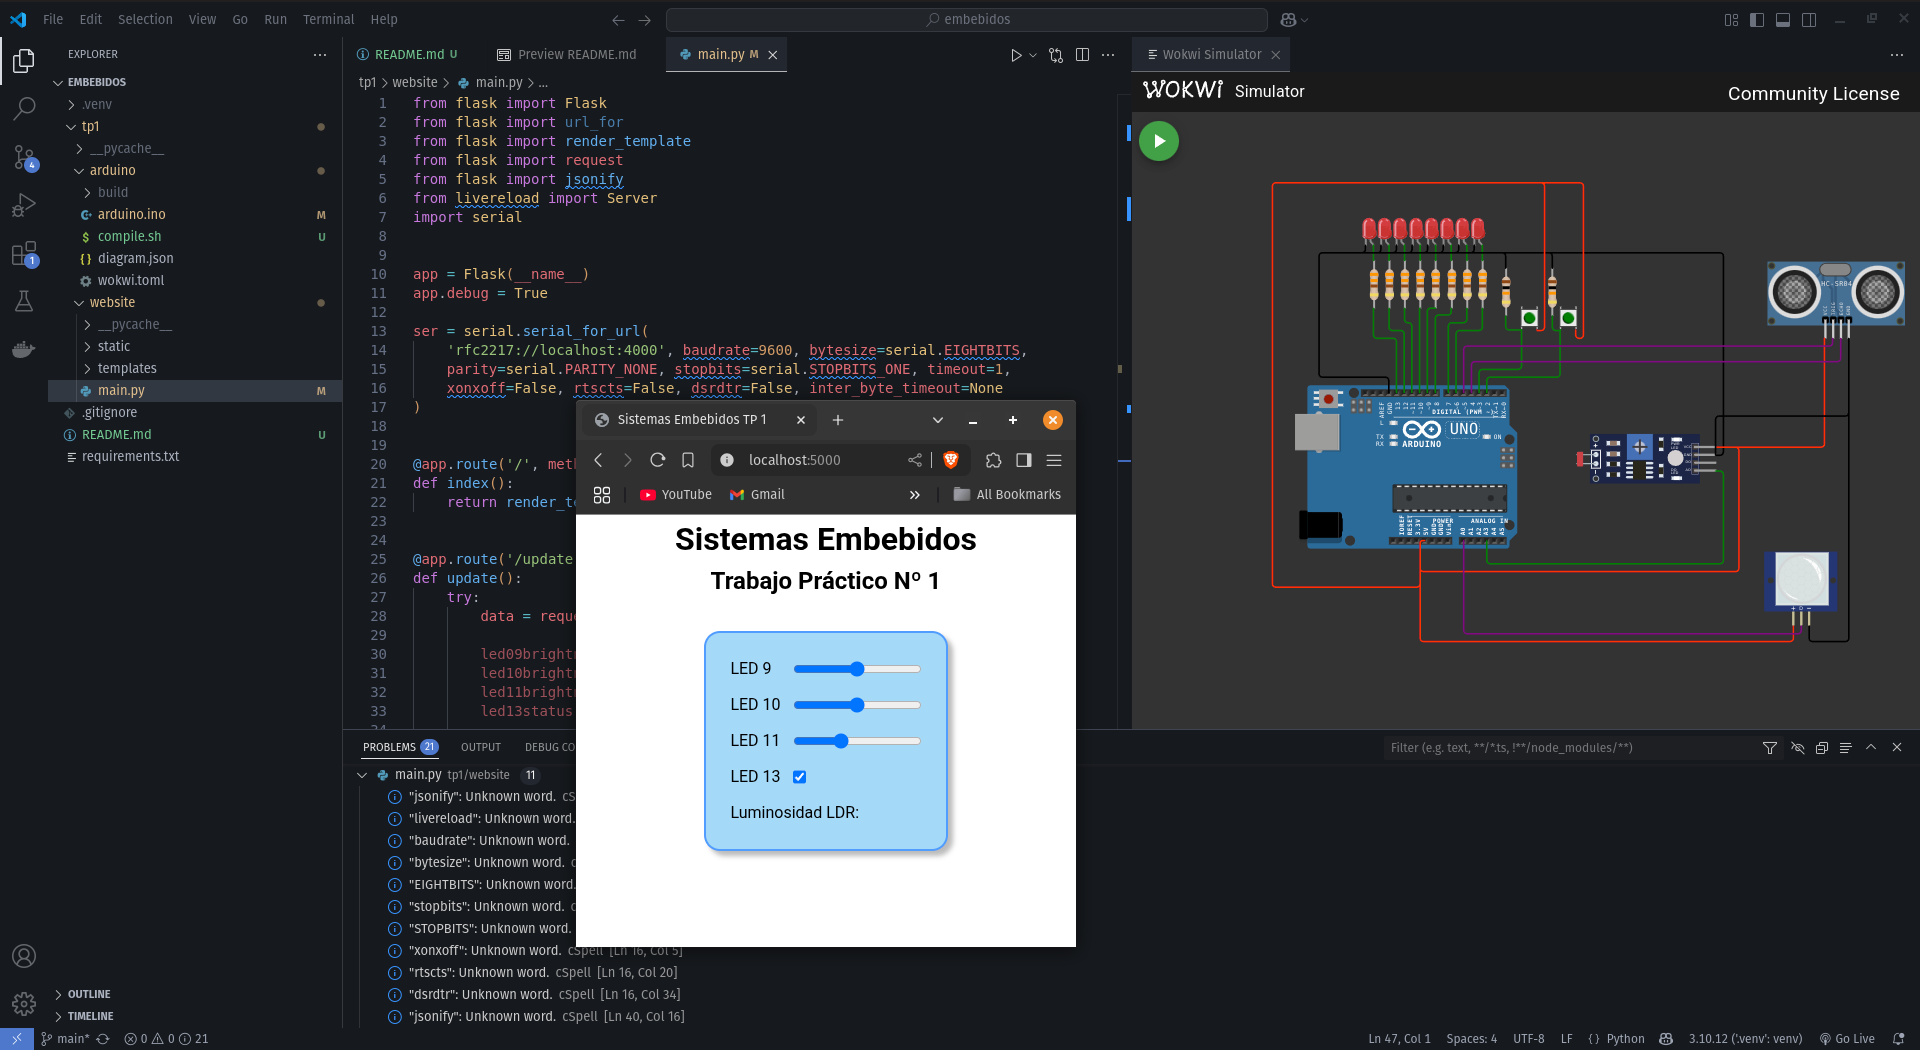
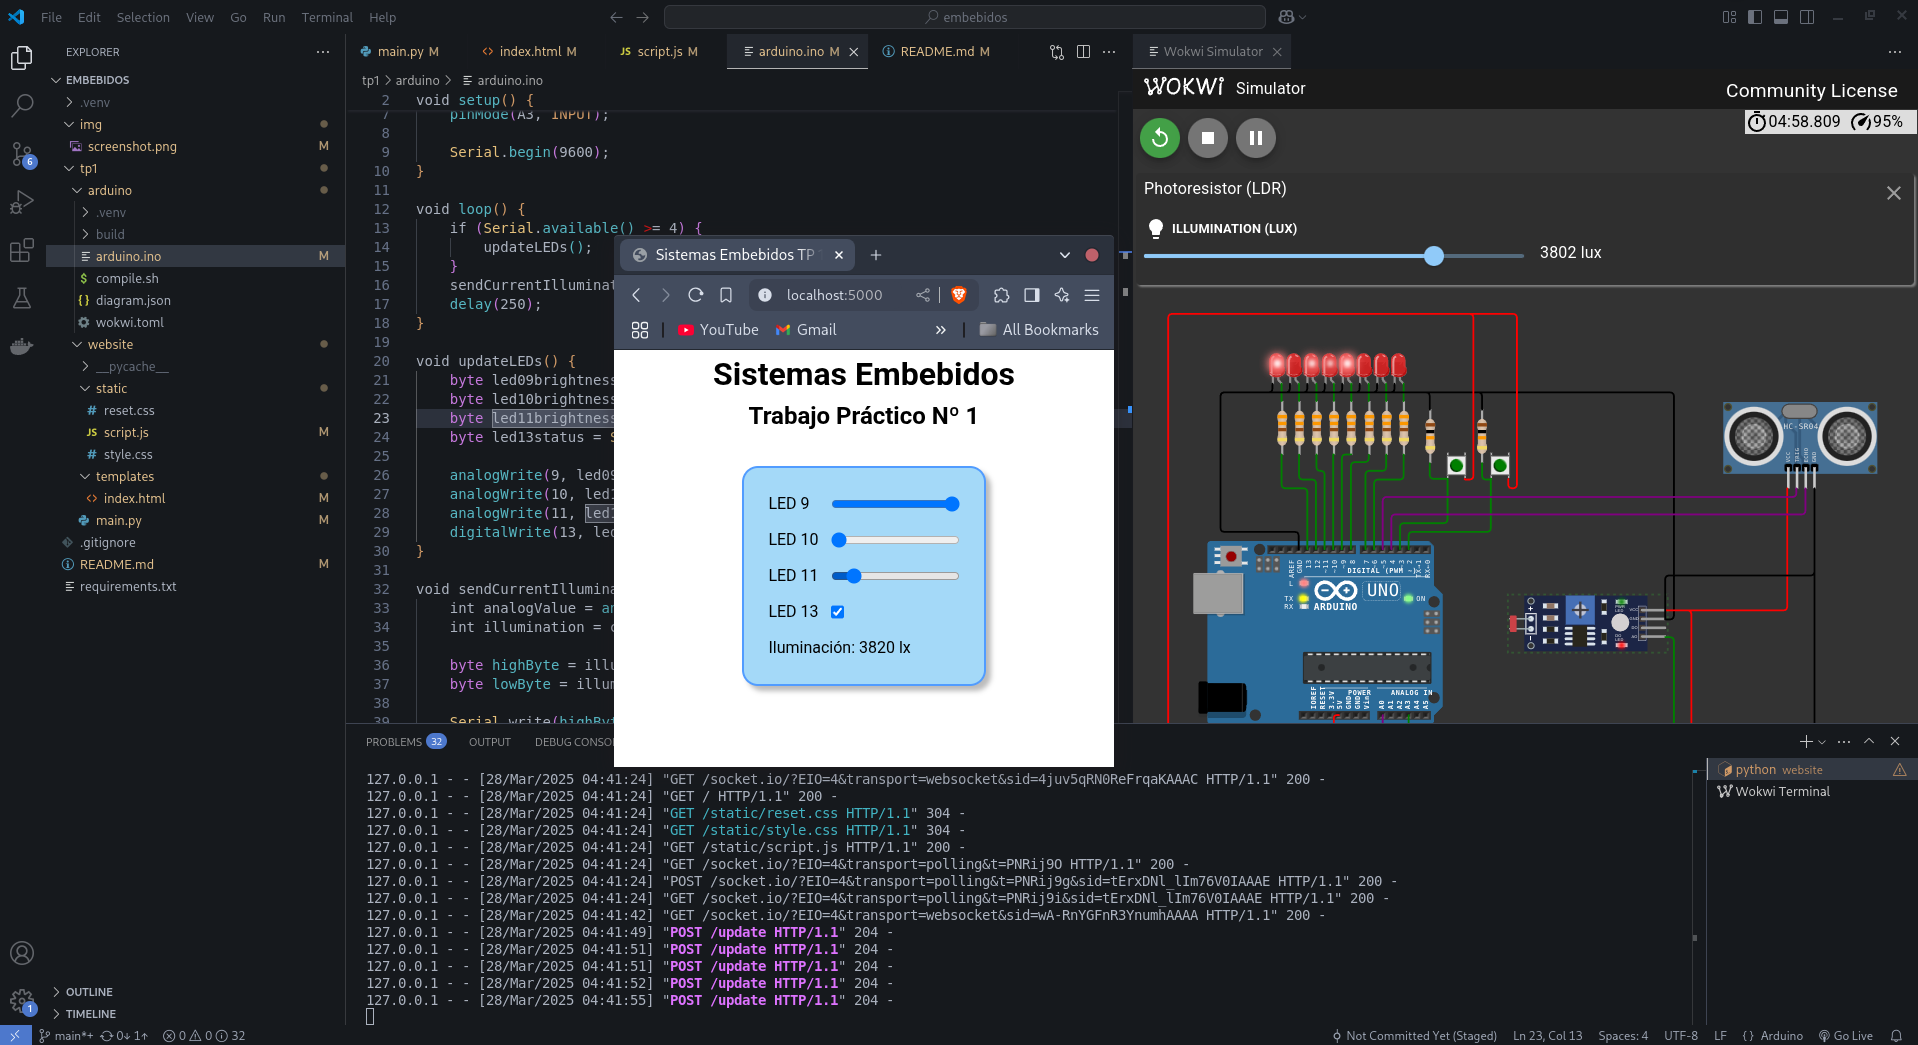
Load LEDs current status to page template

diff --git a/tp1/website/templates/index.html b/tp1/website/templates/index.html
@@ -19,23 +19,23 @@
     <form action="update" method="post">
         <label for="led09">
             LED 9
-            <input type="range" name="led09" id="led09" min="0" max="255" step="1">
+            <input type="range" name="led09" id="led09" min="0" max="255" step="1" value="{{ led09brightness }}">
         </label>
         <label for="led10">
             LED 10
-            <input type="range" name="led10" id="led10" min="0" max="255" step="1">
+            <input type="range" name="led10" id="led10" min="0" max="255" step="1" value="{{ led10brightness }}">
         </label>
         <label for="led11">
             LED 11
-            <input type="range" name="led11" id="led11" min="0" max="255" step="1">
+            <input type="range" name="led11" id="led11" min="0" max="255" step="1" value="{{ led11brightness }}">
         </label>
         <label for="led13">
             LED 13
-            <input type="checkbox" name="led13" id="led13">
+            <input type="checkbox" name="led13" id="led13" {% if led13status %}checked{% endif %}>
         </label>
         <div>
             Iluminación:
-            <span id="illumination"></span>
+            <span id="illumination">Cargando...</span>
         </div>
     </form>
 

diff --git a/tp1/website/static/script.js b/tp1/website/static/script.js
@@ -9,7 +9,7 @@ const illuminationIndicator = document.querySelector('#illumination');
 
 socket.on("illumination_update", (data) => {
     const illumination = data.illumination;
-    illuminationIndicator.textContent = illumination;
+    illuminationIndicator.textContent = illumination + ' lx';
 });
 
 async function sendUpdate(event) {
@@ -34,19 +34,6 @@ async function sendUpdate(event) {
     } catch (error) {
         console.error('There was an error:', error);
     }
-}
-
-function updateUI(data) {
-    const led09range = document.querySelector('#led09');
-    const led10range = document.querySelector('#led10');
-    const led11range = document.querySelector('#led11');
-    const led13checkbox = document.querySelector('#led13');
-
-    led09range.value = data['led09'];
-    led10range.value = data['led10'];
-    led11range.value = data['led11'];
-    led13checkbox.checked = data['led13'];
-    illuminationIndicator.textContent = data['illumination'];
 }
 
 window.onload = function () {

diff --git a/tp1/website/main.py b/tp1/website/main.py
@@ -8,10 +8,10 @@ import serial
 import sys
 
 # valores iniciales
-LED09_BRIGHTNESS = 255
-LED10_BRIGHTNESS = 64
-LED11_BRIGHTNESS = 16
-LED13_STATUS = True
+led09brightness = 255
+led10brightness = 64
+led11brightness = 16
+led13status = True
 
 
 app = Flask(__name__)
@@ -48,7 +48,7 @@ def convertNumStr2Byte(brightness):
     return max(0, min(int(brightness), 255))
 
 
-def updateArduino(led09brightness, led10brightness, led11brightness, led13status):
+def updateArduino():
     data = bytes([
         led09brightness,
         led10brightness,
@@ -63,17 +63,13 @@ def update():
     try:
         data = request.get_json()
 
+        global led09brightness, led10brightness, led11brightness, led13status
         led09brightness = convertNumStr2Byte(data.get('led09', 0))
         led10brightness = convertNumStr2Byte(data.get('led10', 0))
         led11brightness = convertNumStr2Byte(data.get('led11', 0))
         led13status = data.get('led13', '') == 'on'
 
-        updateArduino(
-            led09brightness,
-            led10brightness,
-            led11brightness,
-            led13status
-        )
+        updateArduino()
 
         return '', 204
 
@@ -83,14 +79,14 @@ def update():
 
 @app.route('/', methods=['GET'])
 def index():
-    return render_template('index.html')
+    return render_template(
+        'index.html',
+        led09brightness = led09brightness,
+        led10brightness = led10brightness,
+        led11brightness = led11brightness,
+        led13status = led13status
+    )
 
 
 socketio.start_background_task(serial_read)
-
-updateArduino(
-    LED09_BRIGHTNESS,
-    LED10_BRIGHTNESS,
-    LED11_BRIGHTNESS,
-    LED13_STATUS,
-)
+updateArduino();

diff --git a/README.md b/README.md
@@ -6,9 +6,7 @@
 
 - Extensión Wokwi Simulator para VSCode [Link](https://marketplace.visualstudio.com/items?itemName=wokwi.wokwi-vscode)
     
-    Después de instalarla, hay que apretar `F1` en VSCode y buscar la opción "Wokwi: Request New License". Se abrirá un navegador y hacemos click en "Get Your License". Tal vez haya que iniciar sesión.
-
-- Arduino IDE o cualquier otro editor de Arduino
+    Después de instalarla, hay que apretar `F1` en VSCode y buscar la opción "Wokwi: Request New License". Se abrirá un navegador y hacemos click en "Get Your License". Pide iniciar sesión.
 
 - Arduino CLI y config de la placa
     ```bash
@@ -47,15 +45,15 @@ pip install -r requirements.txt
 
 ### Usar el simulador
 
-El simulador no arranca si no está compilado el programa de Arduino. Para ello, vamos al directorio de un trabajo práctico, luego a la carpeta `arduino`, y ejecutamos el script `compile.sh` para compilar:
+El simulador no arranca si no está compilado el programa de Arduino. Para ello, vamos al directorio de un trabajo práctico, luego al directorio `arduino`, y ejecutamos el script `compile.sh` para compilar:
 
 ```bash
 ./compile.sh
 ```
 
-Para que funcione, el programa del Arduino (arduino.ino) debe estar en esa misma carpeta. El programa compilado debería aparecer en el directorio `build`.
+Para que funcione, el programa del Arduino (arduino.ino) debe estar en ese mismo directorio. Los binarios compilados deberían aparecer en el directorio `build`.
 
-Si hay problemas de permisos, ejecutar `chmod +x compile.sh`.
+Si hay problemas de permisos, ejecutar `chmod u+x compile.sh`.
 
 Ahora sí podemos arrancar el simulador en VSCode apretando `F1` o `Shift`+`Ctrl`+`P` y buscando la opción Wokwi: Start Simulator.
 
@@ -64,18 +62,22 @@ Ahora sí podemos arrancar el simulador en VSCode apretando `F1` o `Shift`+`Ctrl
 
 ### Arrancar el servidor web
 
-El servidor tal vez crashea si no está andando el simulador al mismo tiempo. Ya lo voy a arreglar para que no pase.
+Ir al directorio `website` de algún trabajo práctico.
 
-Ir a la carpeta `website` de algún trabajo práctico y ejecutar (con el entorno virtual de Python activado):
+Si queremos probarlo con el simulador, ejecutamos:
 
 ```bash
-flask --app main.py run
+flask --app main.py run --debug
 ```
 
-Se puede acceder a la página en http://localhost:5000
+Puede que primero tengamos que tener el simulador andando para que funcione.
+
+Si queremos utilizar el Arduino real (debe estar conectado por USB), quitamos el flag `--debug`. En este caso, no es necesario que esté andando el simulador.
+
+Una vez andando el servidor, se puede acceder a la página en http://localhost:5000
 
 ## Prueba
 
-En la página web para el TP1, apretar el checkbox del LED 13 debería cambiar el estado del LED 13 en la simulación.
+En la página web para el TP1, deberían funcionar los controles de los LEDs tanto en el simulador como en la placa Arduino. Lo mismo para la lectura de la simulación.
 
 ![screenshot del entorno](./img/screenshot.png)
